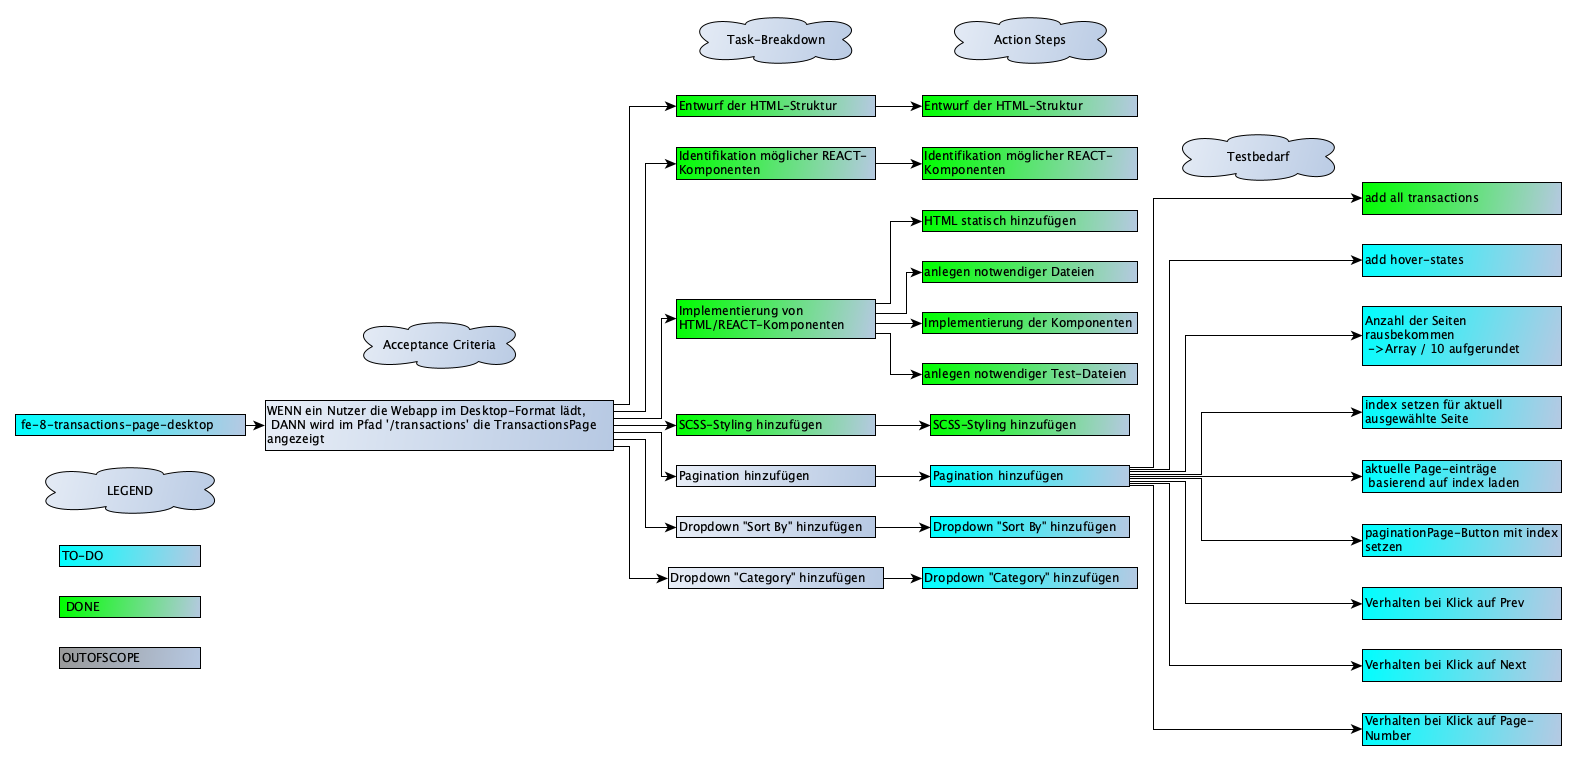
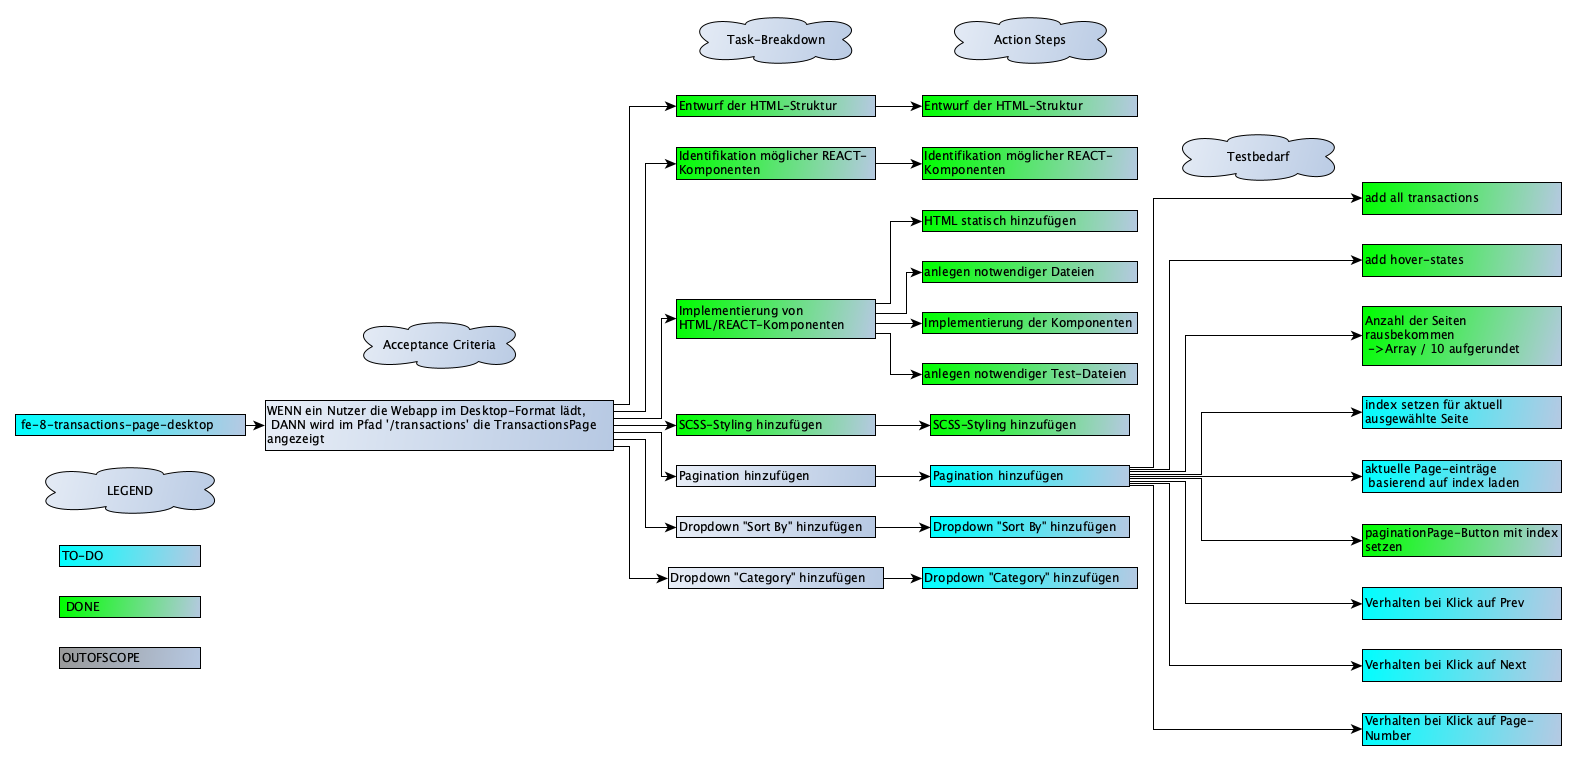
fe-8 add hover states

Changed region(s): [[0.8389, 0.3924, 0.9943, 0.4829], [0.8389, 0.664, 0.9943, 0.7546], [0.8389, 0.3018, 0.9943, 0.3622]]

diff --git a/frontend/src/components/transactions/pagination/PaginationPages.spec.tsx b/frontend/src/components/transactions/pagination/PaginationPages.spec.tsx
@@ -1,0 +1,64 @@
+import { render } from '@testing-library/react';
+import { PaginationPages } from './PaginationPages';
+
+describe('PaginationPages', () => {
+  const indexMax = 10;
+  const currentIndex = 5;
+
+  const testProps = {
+    indexMax,
+    currentIndex,
+  };
+
+  it('renders div paginationPages', () => {
+    const { container } = render(<PaginationPages {...testProps} />);
+
+    const htmlElement = container.querySelector('.paginationPages');
+
+    expect(htmlElement).toBeInTheDocument();
+  });
+
+  it('renders buttons with prop indexMax times', () => {
+    const { container } = render(<PaginationPages {...testProps} />);
+
+    const htmlElements = container.querySelectorAll('.paginationPagesButton');
+
+    expect(htmlElements).toHaveLength(indexMax);
+  });
+
+  it('renders buttons with correct number', () => {
+    const { container } = render(<PaginationPages {...testProps} />);
+
+    const htmlElements = container.querySelectorAll('.paginationPagesButton');
+
+    htmlElements.forEach((button, index) => {
+      expect(button).toHaveTextContent((index + 1).toString());
+    });
+  });
+
+  it('sets active button with prop currentIndex', () => {
+    const { container } = render(<PaginationPages {...testProps} />);
+
+    const htmlElements = container.querySelectorAll('.paginationPagesButton');
+
+    expect(htmlElements[currentIndex]).toHaveClass('isActive');
+    htmlElements.forEach((button, index) => {
+      if (index !== currentIndex) {
+        expect(button).not.toHaveClass('isActive');
+      }
+    });
+  });
+
+  it('sets not active button with prop currentIndex', () => {
+    const { container } = render(<PaginationPages {...testProps} />);
+
+    const htmlElements = container.querySelectorAll('.paginationPagesButton');
+
+    expect(htmlElements[currentIndex]).not.toHaveClass('isNotActive');
+    htmlElements.forEach((button, index) => {
+      if (index !== currentIndex) {
+        expect(button).toHaveClass('isNotActive');
+      }
+    });
+  });
+});

diff --git a/frontend/src/components/transactions/pagination/PaginationButtonPrev.spec.tsx b/frontend/src/components/transactions/pagination/PaginationButtonPrev.spec.tsx
@@ -6,8 +6,11 @@ const imgAlt: string = 'icon of caret left';
 const imgSrc: string = './src/assets/images/icon-caret-left.svg';
 
 describe('PaginationButtonPrev', () => {
+  const currentIndexZero: number = 0;
+  const currentIndexOne: number = 1;
+
   it('renders button paginationButtonPrev', () => {
-    const { container } = render(<PaginationButtonPrev />);
+    const { container } = render(<PaginationButtonPrev currentIndex={currentIndexOne} />);
 
     const htmlElement = container.querySelector('.paginationButtonPrev');
 
@@ -15,7 +18,7 @@ describe('PaginationButtonPrev', () => {
   });
 
   it('renders text of paginationButtonPrev', () => {
-    const { container } = render(<PaginationButtonPrev />);
+    const { container } = render(<PaginationButtonPrev currentIndex={currentIndexOne} />);
 
     const htmlElement = container.querySelector('.paginationButtonPrev');
 
@@ -23,10 +26,26 @@ describe('PaginationButtonPrev', () => {
   });
 
   it('renders caret icon of paginationButtonPrev', () => {
-    render(<PaginationButtonPrev />);
+    render(<PaginationButtonPrev currentIndex={currentIndexOne} />);
 
     const imgElement: HTMLElement = screen.getByAltText(imgAlt);
 
     expect(imgElement).toHaveAttribute('src', imgSrc);
+  });
+
+  it('disables button paginationButtonPrev if currentIndex is 0', () => {
+    const { container } = render(<PaginationButtonPrev currentIndex={currentIndexZero} />);
+
+    const htmlElement = container.querySelector('.paginationButtonPrev');
+
+    expect(htmlElement).toHaveClass('isDisabled');
+  });
+
+  it('enables button paginationButtonPrev if currentIndex is greater than 0', () => {
+    const { container } = render(<PaginationButtonPrev currentIndex={currentIndexOne} />);
+
+    const htmlElement = container.querySelector('.paginationButtonPrev');
+
+    expect(htmlElement).toHaveClass('isEnabled');
   });
 });

diff --git a/frontend/src/components/transactions/pagination/PaginationButtonNext.spec.tsx b/frontend/src/components/transactions/pagination/PaginationButtonNext.spec.tsx
@@ -6,8 +6,11 @@ const imgAlt: string = 'icon of caret right';
 const imgSrc: string = './src/assets/images/icon-caret-right.svg';
 
 describe('PaginationButtonNext', () => {
+  const isMaxIndex: boolean = true;
+  const isNotMaxIndex: boolean = false;
+
   it('renders button paginationButtonNext', () => {
-    const { container } = render(<PaginationButtonNext />);
+    const { container } = render(<PaginationButtonNext isMaxIndex={isMaxIndex} />);
 
     const htmlElement = container.querySelector('.paginationButtonNext');
 
@@ -15,7 +18,7 @@ describe('PaginationButtonNext', () => {
   });
 
   it('renders text of paginationButtonNext', () => {
-    const { container } = render(<PaginationButtonNext />);
+    const { container } = render(<PaginationButtonNext isMaxIndex={isMaxIndex} />);
 
     const htmlElement = container.querySelector('.paginationButtonNext');
 
@@ -23,10 +26,26 @@ describe('PaginationButtonNext', () => {
   });
 
   it('renders caret icon of paginationButtonNext', () => {
-    render(<PaginationButtonNext />);
+    render(<PaginationButtonNext isMaxIndex={isMaxIndex} />);
 
     const imgElement: HTMLElement = screen.getByAltText(imgAlt);
 
     expect(imgElement).toHaveAttribute('src', imgSrc);
+  });
+
+  it('disables button paginationButtonNext if isMaxIndex is true', () => {
+    const { container } = render(<PaginationButtonNext isMaxIndex={isMaxIndex} />);
+
+    const htmlElement = container.querySelector('.paginationButtonNext');
+
+    expect(htmlElement).toHaveClass('isDisabled');
+  });
+
+  it('enables button paginationButtonNext if isMaxIndex is false', () => {
+    const { container } = render(<PaginationButtonNext isMaxIndex={isNotMaxIndex} />);
+
+    const htmlElement = container.querySelector('.paginationButtonNext');
+
+    expect(htmlElement).toHaveClass('isEnabled');
   });
 });

diff --git a/frontend/src/components/transactions/pagination/PaginationPages.tsx b/frontend/src/components/transactions/pagination/PaginationPages.tsx
@@ -1,14 +1,24 @@
 import './PaginationPages.scss';
+import PropTypes from 'prop-types';
+import { PaginationPagesProps } from '../../../types/PaginationPagesProps';
 
-export function PaginationPages() {
+PaginationPages.propTypes = {
+  indexMax: PropTypes.number.isRequired,
+  currentIndex: PropTypes.number.isRequired,
+};
+
+export function PaginationPages({ indexMax, currentIndex }: PaginationPagesProps) {
   return (
     <>
       <div className="paginationPages" data-testid="pagination-pages">
-        <button className="paginationPagesButton">1</button>
-        <button className="paginationPagesButton">2</button>
-        <button className="paginationPagesButton">3</button>
-        <button className="paginationPagesButton">4</button>
-        <button className="paginationPagesButton">5</button>
+        {Array.from({ length: indexMax }, (_, index) => (
+          <button
+            key={index}
+            className={`paginationPagesButton ${index === currentIndex ? 'isActive' : 'isNotActive'}`}
+          >
+            {index + 1}
+          </button>
+        ))}
       </div>
     </>
   );

diff --git a/frontend/src/Pages/TransactionsPage.tsx b/frontend/src/Pages/TransactionsPage.tsx
@@ -18,6 +18,7 @@ export function TransactionsPage() {
   const pageEntrySize: number = 10;
   const transactionsPaged: EPTransaction[][] = splitIntoChunks(transactions, pageEntrySize);
   const pageIndex = 0;
+  const isMaxIndex = !(pageIndex < transactionsPaged.length);
 
   const currentIndexedTransactions = transactionsPaged.at(pageIndex) ?? [];
 
@@ -47,9 +48,9 @@ export function TransactionsPage() {
             ))}
           </div>
           <div className="transactionsPagination">
-            <PaginationButtonPrev />
-            <PaginationPages />
-            <PaginationButtonNext />
+            <PaginationButtonPrev currentIndex={pageIndex} />
+            <PaginationPages indexMax={transactionsPaged.length} currentIndex={pageIndex} />
+            <PaginationButtonNext isMaxIndex={isMaxIndex} />
           </div>
         </div>
       </div>

diff --git a/frontend/src/components/transactions/pagination/PaginationButtonPrev.tsx b/frontend/src/components/transactions/pagination/PaginationButtonPrev.tsx
@@ -1,9 +1,18 @@
 import './PaginationButtonPrev.scss';
+import PropTypes from 'prop-types';
+import { PaginationButtonPrevProps } from '../../../types/PaginationButtonPrevProps';
 
-export function PaginationButtonPrev() {
+PaginationButtonPrev.propTypes = {
+  currentIndex: PropTypes.number.isRequired,
+};
+
+export function PaginationButtonPrev({ currentIndex }: PaginationButtonPrevProps) {
   return (
     <>
-      <button className="paginationButtonPrev" data-testid="pagination-button-prev">
+      <button
+        className={`paginationButtonPrev ${currentIndex > 0 ? 'isEnabled' : 'isDisabled'}`}
+        data-testid="pagination-button-prev"
+      >
         <img
           className="paginationButtonPrevCaret"
           alt="icon of caret left"

diff --git a/frontend/src/components/transactions/pagination/PaginationButtonNext.tsx b/frontend/src/components/transactions/pagination/PaginationButtonNext.tsx
@@ -1,9 +1,18 @@
 import './PaginationButtonNext.scss';
+import PropTypes from 'prop-types';
+import { PaginationButtonNextProps } from '../../../types/PaginationButtonNextProps';
 
-export function PaginationButtonNext() {
+PaginationButtonNext.propTypes = {
+  isMaxIndex: PropTypes.bool.isRequired,
+};
+
+export function PaginationButtonNext({ isMaxIndex }: PaginationButtonNextProps) {
   return (
     <>
-      <button className="paginationButtonNext" data-testid="pagination-button-next">
+      <button
+        className={`paginationButtonNext ${isMaxIndex ? 'isDisabled' : 'isEnabled'}`}
+        data-testid="pagination-button-next"
+      >
         Next
         <img
           className="paginationButtonNextCaret"

diff --git a/frontend/src/components/transactions/pagination/PaginationButtonPrev.scss b/frontend/src/components/transactions/pagination/PaginationButtonPrev.scss
@@ -8,6 +8,22 @@
   align-items: center;
   color: var(--text-dark);
 }
+.paginationButtonPrev.isEnabled:hover {
+  border: 1px solid var(--component-background-grey);
+  background-color: var(--component-background-grey);
+  color: var(--text-white);
+  cursor: pointer;
+
+  .paginationButtonPrevCaret {
+    filter: invert(74%) sepia(0%) saturate(0%) hue-rotate(0deg) brightness(300%) contrast(100%);
+  }
+ }
+.paginationButtonPrev.isDisabled {
+  border: 1px solid var(--component-background-disabled);
+  background-color: var(--component-background-disabled);
+  color: var(--text-grey);
+  cursor: default;
+}
 
 .paginationButtonPrevCaret {
   margin-right: 16px;

diff --git a/frontend/src/components/transactions/pagination/PaginationButtonNext.scss b/frontend/src/components/transactions/pagination/PaginationButtonNext.scss
@@ -8,6 +8,22 @@
   align-items: center;
   color: var(--text-dark);
 }
+.paginationButtonNext.isEnabled:hover {
+  border: 1px solid var(--component-background-grey);
+  background-color: var(--component-background-grey);
+  color: var(--text-white);
+  cursor: pointer;
+
+  .paginationButtonNextCaret {
+    filter: invert(74%) sepia(0%) saturate(0%) hue-rotate(0deg) brightness(300%) contrast(100%);
+  }
+}
+.paginationButtonNext.isDisabled {
+  border: 1px solid var(--component-background-disabled);
+  background-color: var(--component-background-disabled);
+  color: var(--text-grey);
+  cursor: default;
+}
 
 .paginationButtonNextCaret {
   margin-left: 16px;

diff --git a/frontend/src/components/transactions/pagination/PaginationPages.scss b/frontend/src/components/transactions/pagination/PaginationPages.scss
@@ -14,3 +14,16 @@
   align-items: center;
   color: var(--text-dark);
 }
+
+.paginationPagesButton.isActive {
+  border: 1px solid var(--component-background-dark);
+  background-color: var(--component-background-dark);
+  color: var(--text-white);
+}
+
+.paginationPagesButton.isNotActive:hover {
+  border: 1px solid var(--component-background-grey);
+  background-color: var(--component-background-grey);
+  color: var(--text-white);
+  cursor: pointer;
+}

diff --git a/frontend/src/components/transactions/table/TableHeader.scss b/frontend/src/components/transactions/table/TableHeader.scss
@@ -1,7 +1,7 @@
 .transactionsTableHeader {
   padding: 12px 16px 0px 16px;
   display: grid;
-  grid-template-columns: calc(48% - 32px) calc(19% - 32px) calc(15% - 32px) 18%;
+  grid-template-columns: calc(48% - 32px) calc(19% - 32px) calc(20% - 32px) 13%;
   column-gap: 32px;
   font-size: 13px;
   color: var(--text-grey);

diff --git a/frontend/src/components/transactions/table/TableRow.scss b/frontend/src/components/transactions/table/TableRow.scss
@@ -36,7 +36,7 @@
 .transactionsTableRow {
   padding: 0 16px;
   display: grid;
-  grid-template-columns: calc(48% - 32px) calc(19% - 32px) calc(15% - 32px) 18%;
+  grid-template-columns: calc(48% - 32px) calc(19% - 32px) calc(20% - 32px) 13%;
   column-gap: 32px;
   align-items: center;
   font-size: 13px;
